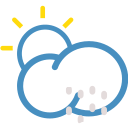
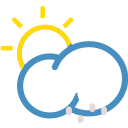
minor layout, trim trailing comma, modify pngs to better harmonize in layout

diff --git a/qml/delegates/ForecastItem.qml b/qml/delegates/ForecastItem.qml
@@ -104,10 +104,10 @@ ListItem {
                 Label {
                     topPadding: 8
                     id:fDate
-                    text: model.dailyDate.toLocaleString("medium").split(now.getFullYear())[0];
+                    text: model.dailyDate.toLocaleString().split(now.getFullYear())[0].slice(0,-1);
                     width: parent.width
                     wrapMode: Text.WordWrap
-                    font.pixelSize: Theme.fontSizeSmall
+                    font.pixelSize: Theme.fontSizeExtraSmall
                     //color: Theme.highlightColor
                 }
                 Label {

diff --git a/qml/pages/OverviewPage.qml b/qml/pages/OverviewPage.qml
@@ -222,7 +222,7 @@ Page {
         }
         PageHeader {
                 id: vDate
-                title: name + " : " + now.toLocaleString().split(now.getFullYear())[0]
+                title: name + " : " + now.toLocaleString().split(now.getFullYear())[0].slice(0,-1)
         }
 
         SilicaListView {
